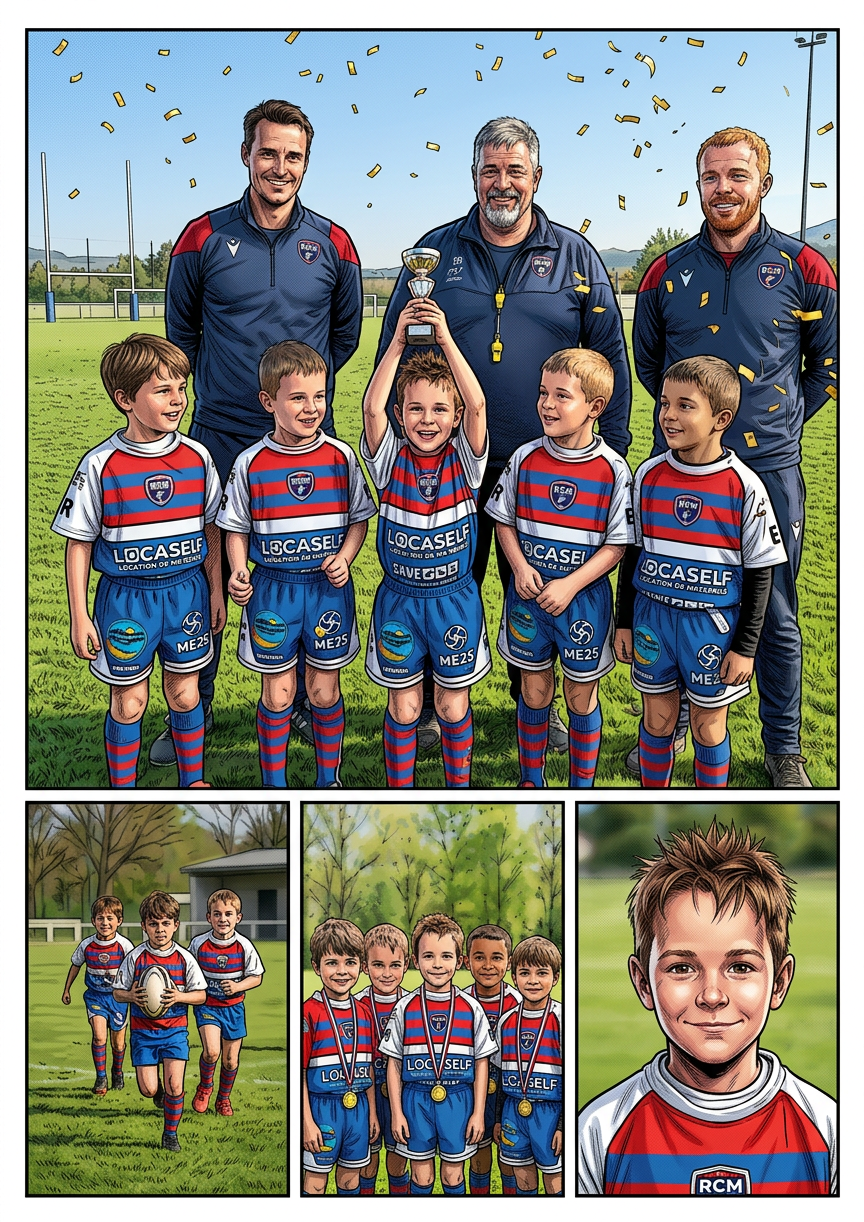
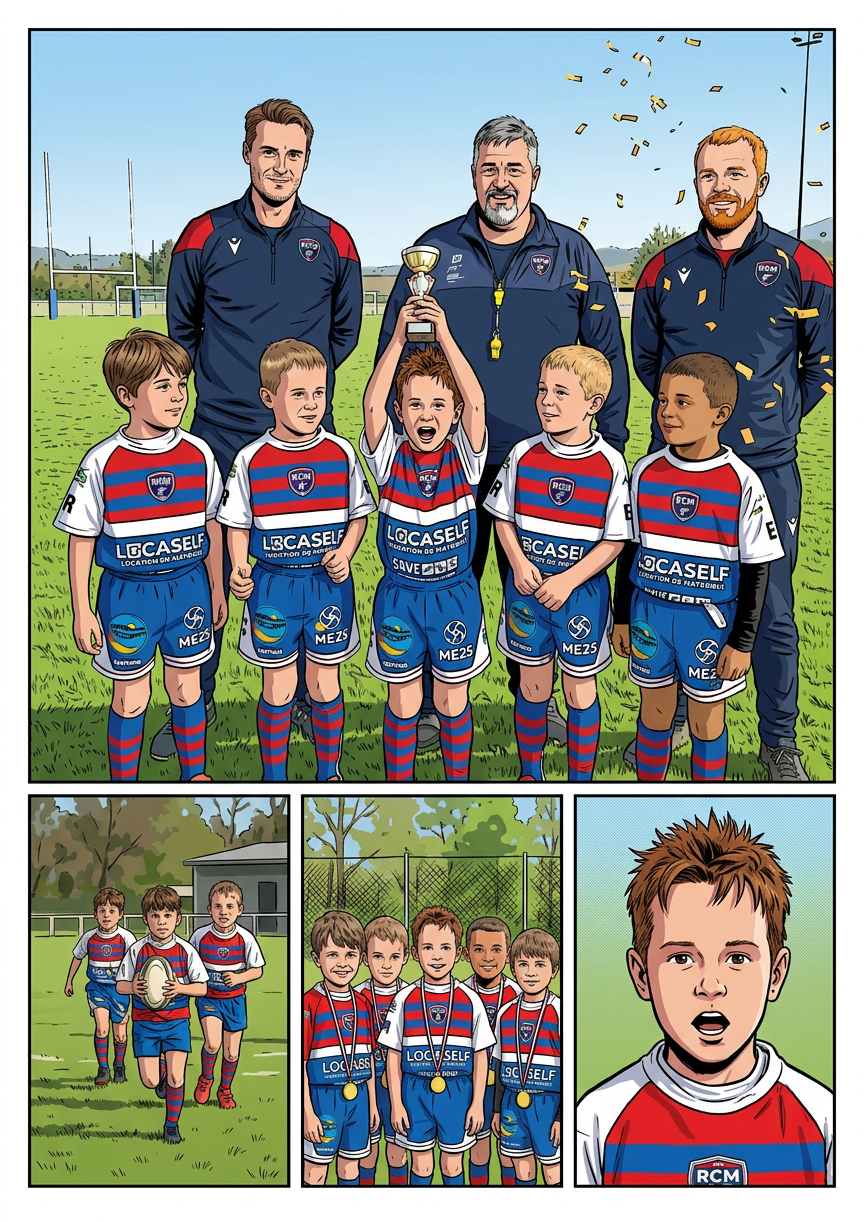
Apply approved V2 style to cover and first batch; isolate rejected page 09

diff --git a/Planches-dessin/SUIVI-STYLE.md b/Planches-dessin/SUIVI-STYLE.md
@@ -1,15 +1,23 @@
 # Harmonisation du style comics
 
-Référence commune : `00-couverture-marvel.png`, identique à l'exemple fourni.
+## Référence validée par l'utilisateur
 
-## Lot du 17 octobre 2026
+`validation/01-la-legende-des-u6-temoin-v2.png` : style validé et planche 1 reprise à l'identique dans le dossier principal. Cette image est désormais la référence graphique commune, y compris pour la couverture. Les premiers rendus et le témoin V1 ne sont pas des références de style.
 
-- Planches 01 à 10 : redessinées à partir des fichiers existants, avec la couverture comme référence de style à chaque génération.
-- Planches 11 à 30 : inchangées, à traiter dans les lots suivants (limite de dix générations atteinte).
-- Couverture : conservée sans modification.
+## Lot courant
 
-Consigne commune : encrage de comics américains, visages modelés, hachures fines, trames discrètes ; conserver découpage, scènes, identités, âges, teints, couleurs des cheveux et des vêtements, objets et textes existants. Aucun ajout narratif.
+- 00 : couverture redessinée avec le témoin V2 comme référence.
+- 01 : témoin V2 validé, copié sans modification.
+- 02–08 et 10 : nouvelles sorties générées à partir des originaux avec le même témoin V2 joint à chaque appel. Contrôle détaillé des identités et du contenu encore nécessaire ; génération ne signifie pas validation définitive.
+- 09 : nouvelle sortie rejetée au contrôle pour ajout de trois enfants empruntés à la référence dans la dernière case. Candidat isolé dans `validation/09-colere-et-larmes-a-corriger.png`. Le fichier principal 09 conserve provisoirement sa version précédente, qui n'est PAS conforme au nouveau style validé.
+- 11–30 : pas encore retraitées avec le style validé.
 
-Les générations ne garantissent pas une identité pixel à pixel : contrôler visuellement les visages et les petits logos avant validation définitive. Les nouveaux fichiers sont des sorties de génération, pas des masters A4 natifs à 300 dpi.
+Dix générations effectuées ce tour : couverture et pages 02–10. Continuer par la correction de 09 et les pages suivantes au prochain lot.
 
-Branche de livraison de cette session : `arena/da207e49-bd`. La branche `arena/a43899a7-bd` n'a pas été modifiée.
+## Contrôle et limites
+
+Conserver découpage, identités, teints, coiffures, expressions, couleurs des tenues et objets. La référence sert uniquement au rendu graphique, jamais à importer ses personnages, poses ou scènes. Vérifier ce risque explicitement pour chaque sortie.
+
+Des variations de visages, de lettrage et de petits logos restent possibles. Les exports générés ne sont pas des masters A4 natifs à 300 dpi. Ne pas annoncer une fidélité parfaite sur la seule base du prompt.
+
+Branche de livraison : `arena/da207e49-bd`. La branche `arena/a43899a7-bd` n'a pas été modifiée.

diff --git a/outils/prompt-restylage-comics.md b/outils/prompt-restylage-comics.md
@@ -79,3 +79,9 @@ Renseigner AVANT d'envoyer le prompt (ne pas envoyer des champs vides) :
 ## Limites à ne pas masquer
 
 Un prompt ne verrouille ni une identité ni le rendu pixel à pixel. L'outil disponible n'expose pas de verrouillage de seed, de modèle, de poids de style ou de contrôle structurel strict. Les textes et petits logos peuvent être déformés. Si les sorties ne passent pas le contrôle, ne pas les annoncer comme fidèles : une retouche locale ou un travail d'encrage manuel peut être nécessaire. Ne pas promettre une homogénéité parfaite sur la seule base de ces instructions.
+
+## Décision utilisateur et référence désormais applicable
+
+L'utilisateur a validé le témoin V2 : `Planches-dessin/validation/01-la-legende-des-u6-temoin-v2.png`. Ce fichier remplace la couverture initiale comme autorité de STYLE pour les générations suivantes, couverture comprise. Sa validation porte sur le rendu choisi ; les erreurs d'expression signalées n'autorisent pas leur propagation. Les références à la couverture comme référence de style dans les sections historiques ci-dessus sont remplacées par cette décision.
+
+Ne pas importer dans une autre planche les trois enfants qui courent, les médailles ou les expressions du témoin. Une telle contamination a été observée sur la sortie 09 et impose son rejet. Les photos ne sont pas jointes par défaut pour éviter le retour au rendu photographique ; la source originale conserve l'autorité sur les personnes.
